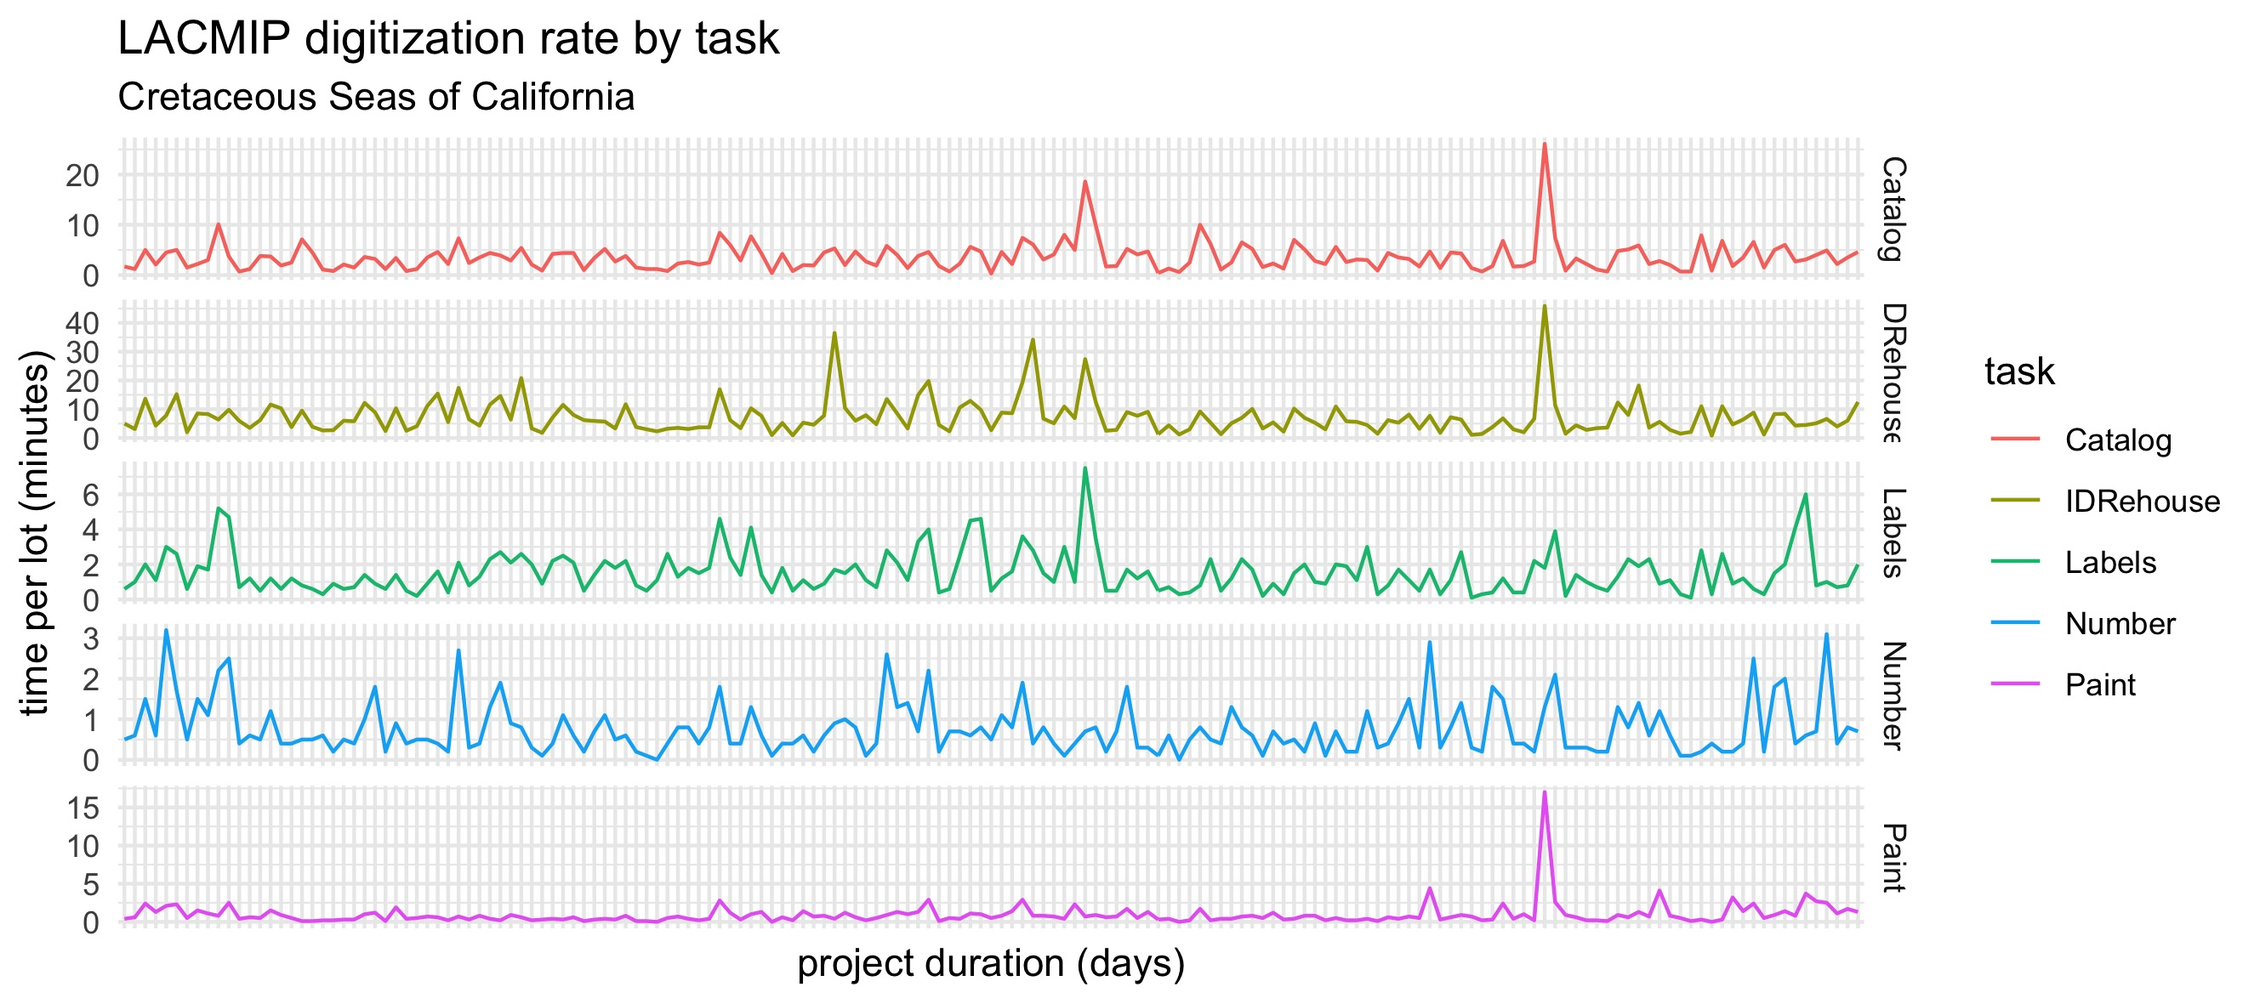
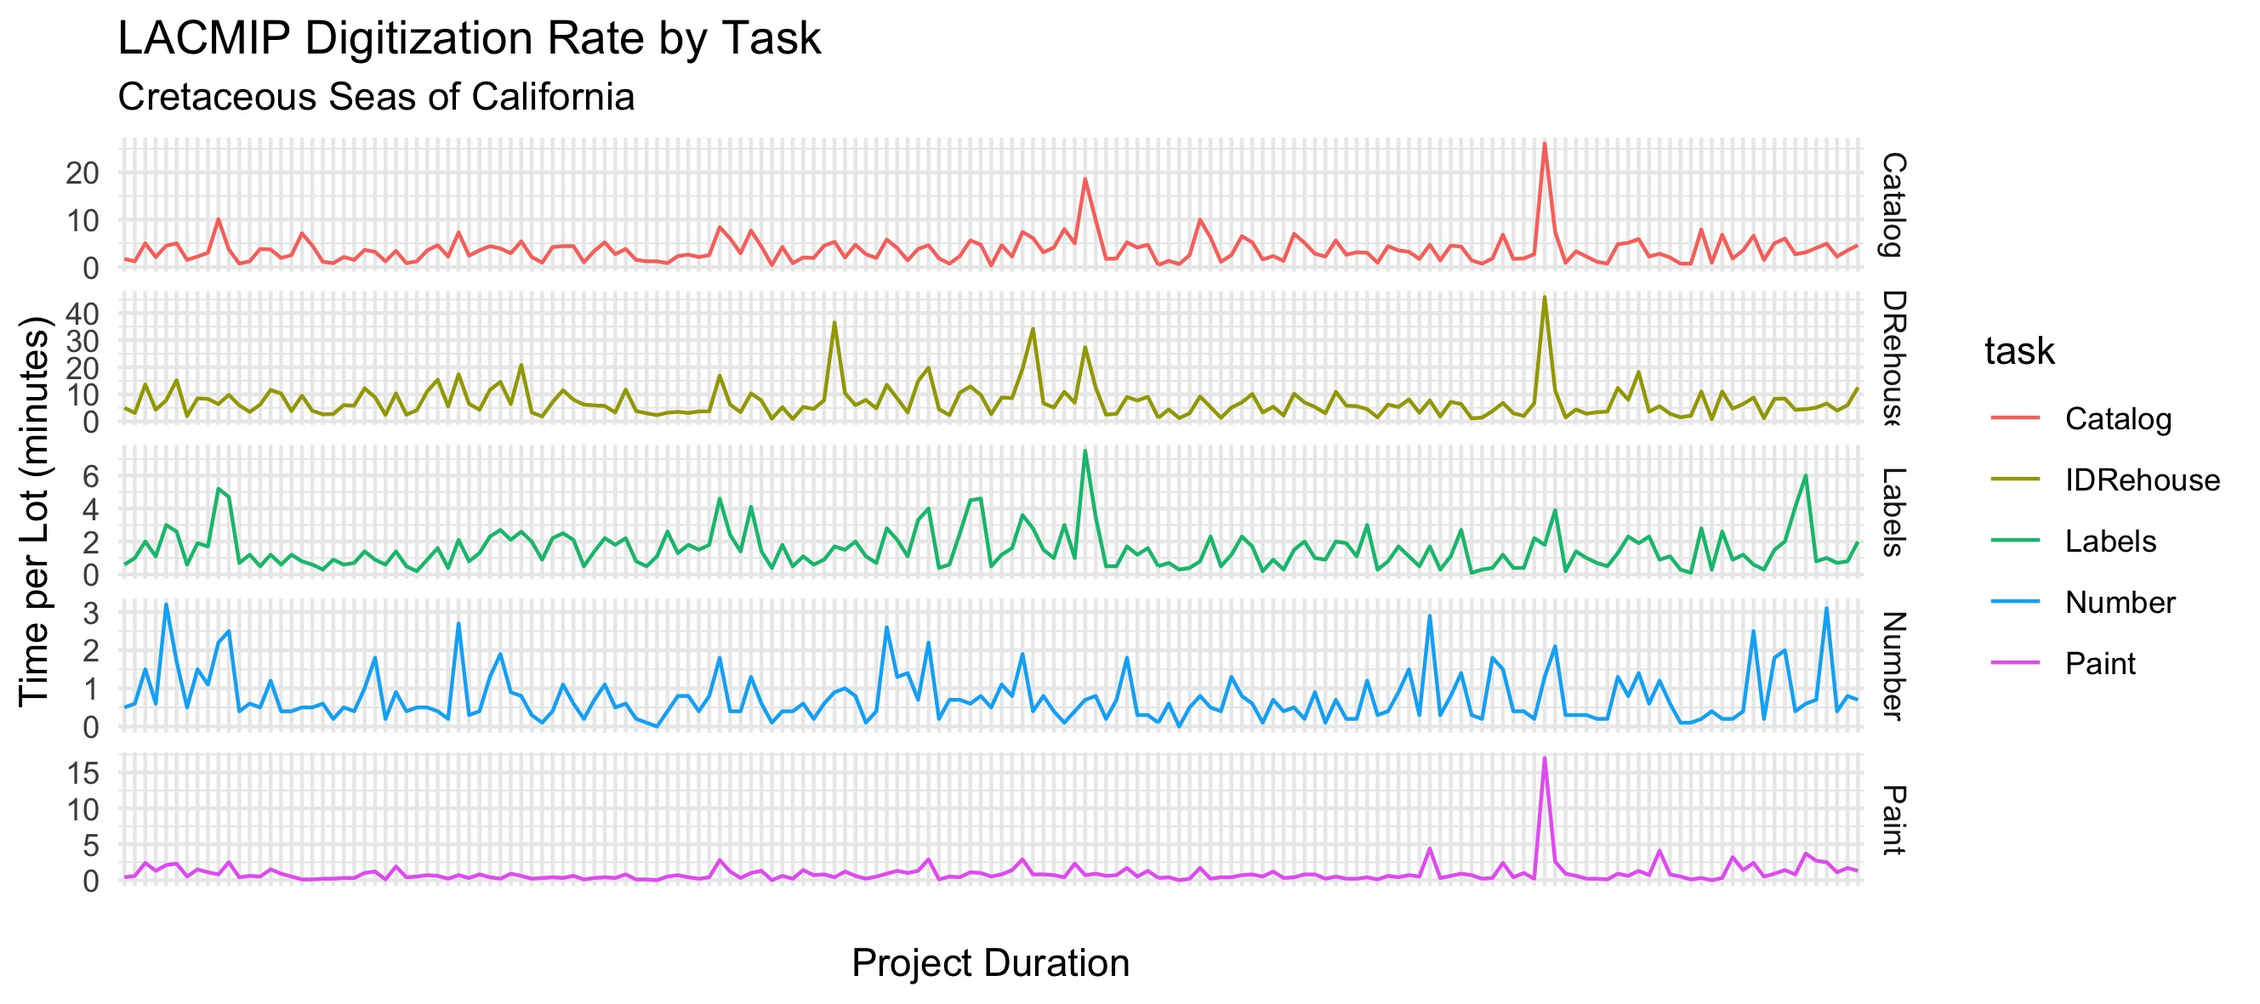
update

diff --git a/lacmip-digitization-metrics.html b/lacmip-digitization-metrics.html
@@ -242,15 +242,15 @@ div.tocify {
 
 <div id="overview" class="section level2">
 <h2>Overview</h2>
-<p>This document contains R code originally written to analyze the results of the “Cretaceous Seas of California” digitization project, supported by funding from the National Science Foundation (NSF DBI 1561429). The code below is designed to be reused with any dataset formatted to track daily digitization progress in the same way. A data template is available <a href="FIX">here</a>.</p>
-<p>If you want to re-use this code, you will need to open this file in R. Begin by loading the Tidyverse library (if you haven’t already, you will also need to install the <a href="https://cran.r-project.org/web/packages/tidyverse/index.html">Tidyverse package</a>):</p>
+<p>This document contains R code originally written to analyze the results of the “Cretaceous Seas of California” digitization project, supported by funding from the National Science Foundation (NSF DBI 1561429). The code below is designed to be reused with any dataset formatted to track daily digitization progress in the same way. A data template is available <a href="https://github.com/LACMIP/digitization-metrics/blob/master/template_lacmip-digitization-time-tracking.csv">here</a>.</p>
+<p>If you want to re-use this code, you should open <a href="https://github.com/LACMIP/digitization-metrics/blob/master/lacmip-digitization-metrics.Rmd">this file</a> in R. Then begin by loading the Tidyverse library (if you haven’t already, you will also need to install the <a href="https://cran.r-project.org/web/packages/tidyverse/index.html">Tidyverse package</a>):</p>
 <pre class="r"><code>library(tidyverse)</code></pre>
 <p>You can also choose to redefine the following project variables:</p>
 <pre class="r"><code>project &lt;- &quot;Cretaceous Seas of California&quot; #shows up as a graph subtitle
 width &lt;- 15 #default dimension (inches) for saving JPG versions of graphs
 height &lt;- 10 #default dimension (inches) for saving JPG versions of graphs</code></pre>
 <p>At this point you are ready to load the digitization time-tracking data you want to analyze into R. Edit the filename here to analyze a different dataset. Make sure your data file is in the correct working directory and formatted according to the template linked above.</p>
-<pre class="r"><code>data &lt;- read_csv(&quot;K-CA-Digitization_2019-01-31.csv&quot;, na = character())</code></pre>
+<pre class="r"><code>data &lt;- read_csv(&quot;input_K-CA-Digitization_2019-01-31.csv&quot;, na = character())</code></pre>
 </div>
 <div id="lots-processed" class="section level2">
 <h2>Lots Processed</h2>
@@ -280,7 +280,7 @@ height &lt;- 10 #default dimension (inches) for saving JPG versions of graphs</c
   write_csv(buildLots, &quot;output_lots.csv&quot;)
   
 }</code></pre>
-<p>A total of <strong>15542 specimen lots were digitized during the Cretaceous Seas of California project</strong>. Not all specimens were digitized, mostly due to poor quality of the original specimen. We can see a breakdown of lots processed by digitization status and collection area from the results of the function above:</p>
+<p>A total of <strong>15542 specimen lots were digitized during the Cretaceous Seas of California project</strong>. Some specimens were evaluated as part of this project but digitized, mostly due to poor quality of the original specimen. We can see a breakdown of lots processed by digitization status and collection area from the results of the function above:</p>
 <p><img src="lacmip-digitization-metrics_files/figure-html/unnamed-chunk-5-1.png" width="672" /></p>
 </div>
 </div>
@@ -410,7 +410,7 @@ height &lt;- 10 #default dimension (inches) for saving JPG versions of graphs</c
 <h2>Taxonomic Improvements</h2>
 <div id="what-taxonomic-improvements-were-made-during-this-project" class="section level3">
 <h3>What taxonomic improvements were made during this project?</h3>
-<p>Use the function below to report on the affect that this project had on the quantity and quality of taxonomic identifications for lots processed during its course.</p>
+<p>Use the function below to report on the effect that this project had on the quantity and quality of taxonomic identifications for lots processed during its course.</p>
 <pre class="r"><code>identifications &lt;- function(data) {
   
   #build table to calculate taxonomic identification actions by type
@@ -418,12 +418,18 @@ height &lt;- 10 #default dimension (inches) for saving JPG versions of graphs</c
     select(matches(&quot;ID_&quot;)) %&gt;% 
     summarise_all(funs(sum(.,na.rm = TRUE))) %&gt;% 
     gather(&quot;identification action&quot;,&quot;count&quot;) %&gt;% 
-    mutate(`identification action` = sub(&quot;ID_genusChange&quot;,&quot;genus name updated or redetermined&quot;,`identification action`)) %&gt;% 
-    mutate(`identification action` = sub(&quot;ID_speciesChange&quot;,&quot;species name updated or redetermined&quot;,`identification action`)) %&gt;% 
-    mutate(`identification action` = sub(&quot;ID_sp&quot;,&quot;evaluated but could not assign species name&quot;,`identification action`)) %&gt;%
-    mutate(`identification action` = sub(&quot;ID_rank-up&quot;,&quot;taxonomic rank moved up  &quot;,`identification action`)) %&gt;%
-    mutate(`identification action` = sub(&quot;ID_rank-down&quot;,&quot;taxonomic rank moved down &quot;,`identification action`)) %&gt;%
-    mutate(`identification action` = sub(&quot;ID_new&quot;,&quot;taxonomic identification assigned for the first time&quot;,`identification action`)) %&gt;%
+    mutate(`identification action` = 
+      sub(&quot;ID_genusChange&quot;,&quot;genus name updated or redetermined&quot;,`identification action`)) %&gt;% 
+    mutate(`identification action` = 
+      sub(&quot;ID_speciesChange&quot;,&quot;species name updated or redetermined&quot;,`identification action`)) %&gt;% 
+    mutate(`identification action` = 
+      sub(&quot;ID_sp&quot;,&quot;evaluated but could not assign species name&quot;,`identification action`)) %&gt;%
+    mutate(`identification action` = 
+      sub(&quot;ID_rank-up&quot;,&quot;taxonomic rank moved up  &quot;,`identification action`)) %&gt;%
+    mutate(`identification action` = 
+      sub(&quot;ID_rank-down&quot;,&quot;taxonomic rank moved down &quot;,`identification action`)) %&gt;%
+    mutate(`identification action` = 
+      sub(&quot;ID_new&quot;,&quot;identification assigned for the first time&quot;,`identification action`)) %&gt;%
     mutate(&quot;% total lots&quot; = round((count/totalLots*100),1))
   
   #calculate the total percent of specimen lots affected by taxonomic identification action and
@@ -471,7 +477,7 @@ height &lt;- 10 #default dimension (inches) for saving JPG versions of graphs</c
 <td align="right">3.8</td>
 </tr>
 <tr class="even">
-<td align="left">taxonomic identification assigned for the first time</td>
+<td align="left">identification assigned for the first time</td>
 <td align="right">7748</td>
 <td align="right">49.9</td>
 </tr>
@@ -482,9 +488,9 @@ height &lt;- 10 #default dimension (inches) for saving JPG versions of graphs</c
 </div>
 <div id="digitization-rate" class="section level2">
 <h2>Digitization Rate</h2>
-<div id="what-was-this-projects-digitization-rate-over-time" class="section level3">
-<h3>What was this project’s digitization rate over time?</h3>
-<p>Use the function below to report on the rate of digitization over the lifespan of this project.</p>
+<div id="what-was-this-projects-overall-digitization-rate" class="section level3">
+<h3>What was this project’s overall digitization rate?</h3>
+<p>Use the function below to report on the rate of digitization over the lifespan of this project, as measured by the number of specimen lots processed.</p>
 <pre class="r"><code>digitizationRate &lt;- function(data) {
   
   #build table to summarize number of lots processed over time
@@ -506,27 +512,26 @@ height &lt;- 10 #default dimension (inches) for saving JPG versions of graphs</c
   write_csv(buildDigitizationRate, &quot;output_digitizationRate.csv&quot;)
   
   #graph digitization rate by month
-  graphDigitizationRate &lt;&lt;- 
-    ggplot(buildDigitizationRate, aes(x = month, y = lots)) + 
+  graphDigitizationRate &lt;- buildDigitizationRate %&gt;% 
+    ggplot(aes(x = month, y = lots)) + 
     geom_col() +
     labs(title = &quot;LACMIP Digitization Rate by Lots&quot;,
          subtitle = project,
-         y = &quot;# of lots processed&quot;,
-         x = &quot;&quot;) +
+         y = &quot;# of Lots Processed&quot;,
+         x = &quot;\nMonth&quot;) +
     theme_minimal() +
     theme(axis.text.x = element_text(angle = 45, hjust = 1, vjust = 1))
   
   #output graph to file
   ggsave(&quot;output_digitizationRate.jpg&quot;, plot = graphDigitizationRate, 
-         width = width, height = height, units = &quot;cm&quot;, dpi = &quot;print&quot;)
+         width = width*1.5, height = height, units = &quot;cm&quot;, dpi = &quot;print&quot;)
   
 }</code></pre>
-<p>The Cretaceous Seas of California project digitization rate is graphed below by the number of lots processed over time, an <strong>average of 914 specimen lots per month</strong>.</p>
-<p><img src="lacmip-digitization-metrics_files/figure-html/unnamed-chunk-11-1.png" width="672" /></p>
+<div class="figure">
+<img src="output_digitizationRate.jpg" alt="The Cretaceous Seas of California project digitization rate is graphed here by the number of lots processed over time, an average of 914 specimen lots per month." />
+<p class="caption">The Cretaceous Seas of California project digitization rate is graphed here by the number of lots processed over time, an <strong>average of 914 specimen lots per month</strong>.</p>
 </div>
 </div>
-<div id="digitization-analysis" class="section level2">
-<h2>Digitization Analysis</h2>
 <div id="what-digitization-tasks-required-the-most-time" class="section level3">
 <h3>What digitization tasks required the most time?</h3>
 <p>Use the function below to report on the time required to perform each of the core tasks associated with specimen digitization.</p>
@@ -551,7 +556,8 @@ height &lt;- 10 #default dimension (inches) for saving JPG versions of graphs</c
     mutate(minutesPerCatalog = round(`TIME_catalog`*60/lotsProcessed,1)) %&gt;% 
     mutate(minutesPerLabels = round(`TIME_labels`*60/lotsProcessed,1)) %&gt;% 
     mutate(minutesPerNumber = round(`TIME_number`*60/lotsProcessed,1)) %&gt;% 
-    select(date, matches(&quot;LOC_&quot;), matches(&quot;minutes&quot;), lotsProcessed, lotsRehoused, lotsIdentified, lotsReidentified)
+    select(date, matches(&quot;LOC_&quot;), matches(&quot;minutes&quot;), 
+      lotsProcessed, lotsRehoused, lotsIdentified, lotsReidentified)
   
   #output results to file
   write_csv(buildDigitizationTask, &quot;output_digitizationTask.csv&quot;)
@@ -568,18 +574,19 @@ height &lt;- 10 #default dimension (inches) for saving JPG versions of graphs</c
   
   #(FIX - set factor to re-order tasks in graph, by natural sequence)
   #graph average minutes per specimen lot per task
-  graphDigitizationTaskAvg &lt;&lt;- buildDigitizationTaskAvg %&gt;% 
+  graphDigitizationTaskAvg &lt;- buildDigitizationTaskAvg %&gt;% 
     ggplot(aes(x = Task, y = `Time (min/lot)`, label = `Time (min/lot)`)) + 
     geom_bar(stat = &quot;identity&quot;) + 
-    labs(title = &quot;LACMIP Average Digitization Rate by Task&quot;,
+    labs(title = &quot;LACMIP Digitization Time per Task&quot;,
          subtitle = project,
-         y = &quot;time per lot (minutes)&quot;,
-         x = &quot;&quot;) +
+         y = &quot;Time per Lot (minutes)&quot;,
+         x = &quot;\nTask&quot;) +
     theme_minimal() +
     geom_text(vjust = 0, nudge_y = 0.05)
   
   #output graph to file
-  ggsave(&quot;output_graphDigitizationTaskAvg.jpg&quot;, plot = graphDigitizationTaskAvg, width = width*1.5, height = height, units = &quot;cm&quot;, dpi = &quot;print&quot;)
+  ggsave(&quot;output_digitizationTaskAvg.jpg&quot;, plot = graphDigitizationTaskAvg, 
+         width = width, height = height, units = &quot;cm&quot;, dpi = &quot;print&quot;)
   
   #calculate average minutes per specimen lot per task over time
   buildDigitizationTaskTime &lt;- buildDigitizationTask %&gt;%
@@ -590,47 +597,59 @@ height &lt;- 10 #default dimension (inches) for saving JPG versions of graphs</c
     mutate(task = sub(&quot;minutesPer&quot;,&quot;&quot;,task))
     
   #graph average minutes per specimen lot (all tasks) over time
-  graphDigitizationTaskTime_total &lt;&lt;- buildDigitizationTaskTime %&gt;% 
+  graphDigitizationTaskTime_total &lt;- buildDigitizationTaskTime %&gt;% 
     filter(task == &quot;minutesTotal&quot;) %&gt;% 
     ggplot(aes(x = date, y = minutesPerSpm)) + 
     geom_point() +
     geom_smooth(method = lm) +
     labs(title = &quot;LACMIP Digitization Rate by Time per Lot&quot;,
          subtitle = project,
-         y = &quot;time per lot (minutes)&quot;,
-         x = &quot;&quot;) +
+         y = &quot;Time per Lot (minutes)&quot;,
+         x = &quot;\nProject Duration&quot;) +
     theme_minimal() +
     theme(axis.text.x = element_text(angle = 45, hjust = 1, vjust = 1))
   
   #output graph to file
-  ggsave(&quot;output_digitizationTaskTime_total.jpg&quot;, plot = graphDigitizationTaskTime_total, width = width*1.5, height = height, units = &quot;cm&quot;, dpi = &quot;print&quot;)
+  ggsave(&quot;output_digitizationTaskTime_total.jpg&quot;, plot = graphDigitizationTaskTime_total, 
+         width = width*1.5, height = height, units = &quot;cm&quot;, dpi = &quot;print&quot;)
   
   #graph average minutes per specimen lot per task over time
-  graphDigitizationTaskTime_task &lt;&lt;- buildDigitizationTaskTime %&gt;% 
+  graphDigitizationTaskTime_task &lt;- buildDigitizationTaskTime %&gt;% 
     spread(task, minutesPerSpm) %&gt;% 
     select(-Count, -minutesTotal) %&gt;% 
     filter_all(all_vars(!is.na(.))) %&gt;% 
     gather(&quot;task&quot;, &quot;minutesPerSpm&quot;, -date) %&gt;% 
     ggplot(aes(x = as.factor(date), y = minutesPerSpm, group = task, color = task)) + 
     geom_line() +
-    #coord_cartesian(ylim = c(0, 20)) +
+    #coord_cartesian(ylim = c(0, 40)) +
     facet_grid(rows = vars(task), scales = &quot;free&quot;) +
-    labs(title = &quot;LACMIP digitization rate by task&quot;,
+    labs(title = &quot;LACMIP Digitization Rate by Task&quot;,
          subtitle = project,
-         y = &quot;time per lot (minutes)&quot;,
-         x = &quot;project duration (days)&quot;) +
+         y = &quot;Time per Lot (minutes)&quot;,
+         x = &quot;\nProject Duration&quot;) +
     theme_minimal() +
     theme(axis.text.x = element_blank())
   
   #output graph to file
-  ggsave(&quot;output_digitizationTaskTime_task.jpg&quot;, plot = graphDigitizationTaskTime_task, width = width*1.5, height = height, units = &quot;cm&quot;, dpi = &quot;print&quot;)
+  ggsave(&quot;output_digitizationTaskTime_task.jpg&quot;, plot = graphDigitizationTaskTime_task, 
+         width = width*1.5, height = height, units = &quot;cm&quot;, dpi = &quot;print&quot;)
 
 }</code></pre>
-<p>The average time per specimen lot per task is graphed below. <img src="lacmip-digitization-metrics_files/figure-html/unnamed-chunk-13-1.png" width="672" /> The average time to process a specimen lot including all tasks is graphed below.</p>
-<pre class="r"><code>graphDigitizationTaskTime_total</code></pre>
-<p><img src="lacmip-digitization-metrics_files/figure-html/unnamed-chunk-14-1.png" width="672" /> A comparion between tasks over time is graphed below.</p>
-<pre class="r"><code>graphDigitizationTaskTime_task</code></pre>
-<p><img src="lacmip-digitization-metrics_files/figure-html/unnamed-chunk-15-1.png" width="672" /></p>
+<div class="figure">
+<img src="output_digitizationTaskAvg.jpg" alt="Digitization is comprised of specific tasks, often completed by people with different roles in the project (staff, student, volunteer, etc.). LACMIP identified and tracked six specific digitization tasks, and the average time required to complete each task for one specimen lot is graphed here." />
+<p class="caption">Digitization is comprised of specific tasks, often completed by people with different roles in the project (staff, student, volunteer, etc.). LACMIP identified and tracked six specific digitization tasks, and the average time required to complete each task for one specimen lot is graphed here.</p>
+</div>
+<div class="figure">
+<img src="output_digitizationTaskTime_task.jpg" alt="The digitization rate over time broken up by task is graphed here" />
+<p class="caption">The digitization rate over time broken up by task is graphed here</p>
+</div>
+</div>
+<div id="what-factors-effected-digitization-rates" class="section level3">
+<h3>What factors effected digitization rates?</h3>
+<div class="figure">
+<img src="output_digitizationTaskTime_total.jpg" alt="The average time to digitize a single specimen lot (all tasks included) varied, as shown in the graph here, with no clear indication that overall project duration affected digitization rate." />
+<p class="caption">The average time to digitize a single specimen lot (all tasks included) varied, as shown in the graph here, with no clear indication that overall project duration affected digitization rate.</p>
+</div>
 </div>
 </div>
 

diff --git a/README.html b/README.html
@@ -1,0 +1,162 @@
+<!DOCTYPE html>
+
+<html xmlns="http://www.w3.org/1999/xhtml">
+
+<head>
+
+<meta charset="utf-8" />
+<meta http-equiv="Content-Type" content="text/html; charset=utf-8" />
+<meta name="generator" content="pandoc" />
+
+
+
+
+<title></title>
+
+<script src="site_libs/jquery-1.11.3/jquery.min.js"></script>
+<meta name="viewport" content="width=device-width, initial-scale=1" />
+<link href="site_libs/bootstrap-3.3.5/css/bootstrap.min.css" rel="stylesheet" />
+<script src="site_libs/bootstrap-3.3.5/js/bootstrap.min.js"></script>
+<script src="site_libs/bootstrap-3.3.5/shim/html5shiv.min.js"></script>
+<script src="site_libs/bootstrap-3.3.5/shim/respond.min.js"></script>
+<script src="site_libs/navigation-1.1/tabsets.js"></script>
+<link href="site_libs/highlightjs-9.12.0/default.css" rel="stylesheet" />
+<script src="site_libs/highlightjs-9.12.0/highlight.js"></script>
+
+<style type="text/css">code{white-space: pre;}</style>
+<style type="text/css">
+  pre:not([class]) {
+    background-color: white;
+  }
+</style>
+<script type="text/javascript">
+if (window.hljs) {
+  hljs.configure({languages: []});
+  hljs.initHighlightingOnLoad();
+  if (document.readyState && document.readyState === "complete") {
+    window.setTimeout(function() { hljs.initHighlighting(); }, 0);
+  }
+}
+</script>
+
+
+
+<style type="text/css">
+h1 {
+  font-size: 34px;
+}
+h1.title {
+  font-size: 38px;
+}
+h2 {
+  font-size: 30px;
+}
+h3 {
+  font-size: 24px;
+}
+h4 {
+  font-size: 18px;
+}
+h5 {
+  font-size: 16px;
+}
+h6 {
+  font-size: 12px;
+}
+.table th:not([align]) {
+  text-align: left;
+}
+</style>
+
+
+</head>
+
+<body>
+
+<style type = "text/css">
+.main-container {
+  max-width: 940px;
+  margin-left: auto;
+  margin-right: auto;
+}
+code {
+  color: inherit;
+  background-color: rgba(0, 0, 0, 0.04);
+}
+img {
+  max-width:100%;
+  height: auto;
+}
+.tabbed-pane {
+  padding-top: 12px;
+}
+.html-widget {
+  margin-bottom: 20px;
+}
+button.code-folding-btn:focus {
+  outline: none;
+}
+</style>
+
+
+
+<div class="container-fluid main-container">
+
+<!-- tabsets -->
+<script>
+$(document).ready(function () {
+  window.buildTabsets("TOC");
+});
+</script>
+
+<!-- code folding -->
+
+
+
+
+
+
+<div class="fluid-row" id="header">
+
+
+
+
+</div>
+
+
+<div id="digitization-metrics" class="section level1">
+<h1>digitization-metrics</h1>
+<p>This repository contains R code originally written to analyze the results of the “Cretaceous Seas of California” digitization project, supported by funding from the National Science Foundation (NSF DBI 1561429).</p>
+<p>Please see results <a href="https://lacmip.github.io/digitization-metrics/lacmip-digitization-metrics.html">here</a>.</p>
+</div>
+
+
+
+
+</div>
+
+<script>
+
+// add bootstrap table styles to pandoc tables
+function bootstrapStylePandocTables() {
+  $('tr.header').parent('thead').parent('table').addClass('table table-condensed');
+}
+$(document).ready(function () {
+  bootstrapStylePandocTables();
+});
+
+
+</script>
+
+<!-- dynamically load mathjax for compatibility with self-contained -->
+<script>
+  (function () {
+    var script = document.createElement("script");
+    script.type = "text/javascript";
+    script.src  = "https://mathjax.rstudio.com/latest/MathJax.js?config=TeX-AMS-MML_HTMLorMML";
+    document.getElementsByTagName("head")[0].appendChild(script);
+  })();
+</script>
+
+</body>
+</html>
